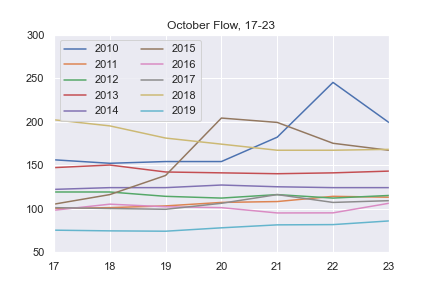
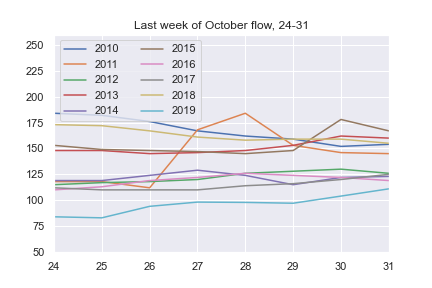
Week 9 Questions and Code

diff --git a/Forecast_Submissions/Bettis_HW9.py b/Forecast_Submissions/Bettis_HW9.py
@@ -1,0 +1,119 @@
+# %%
+# Import needed modules
+import pandas as pd
+import matplotlib.pyplot as plt
+from numpy.lib.function_base import average, median
+import datetime
+import os
+import dataretrieval.nwis as nwis
+import json
+import urllib.request as req
+import urllib
+# Set a grey background
+import seaborn as sns
+sns.set(style="darkgrid")
+df = sns.load_dataset('iris')
+
+# %%
+# Importing a URL to get data from instead of calling it from a text file
+# We should break the URL up onto multiple lines so it will be easier to read
+# Verde River Near Camp Verde
+url = "https://waterdata.usgs.gov/nwis/dv?cb_00060=on&format=rdb&site_no=09506000" \
+       "&referred_module=sw&period=&begin_date=1989-01-01&end_date=2020-10-21"
+
+# Now we can read it with read_table command the same as we did before
+# (note run this without the skiprows and names to show what those are doing)
+data = pd.read_table(url, sep='\t', skiprows=30,
+                      names=['agency_cd', 'site_no',
+                              'datetime', 'flow', 'code'],
+                              parse_dates=['datetime'])
+
+# Expand the dates to year month day
+data['year'] = pd.DatetimeIndex(data['datetime']).year
+data['month'] = pd.DatetimeIndex(data['datetime']).month
+data['day'] = pd.DatetimeIndex(data['datetime']).day
+data['dayofweek'] = pd.DatetimeIndex(data['datetime']).dayofweek
+datai = data.copy()
+datai = datai.set_index('datetime')
+# %%
+# Mesonet Example
+# Here are some helpful links for getting started
+# https://developers.synopticdata.com/about/station-variables/
+# https://developers.synopticdata.com/mesonet/explorer/
+# https://explore.synopticdata.com/metadata/stations?status=ACTIVE
+
+# First Create the URL for the rest API
+# Insert your token here
+mytoken = '2937e314803a4e31b8423f6b5da86644'
+
+# This is the base url that will be the start our final url
+base_url = "http://api.mesowest.net/v2/stations/timeseries"
+
+# Specific arguments for Montezuma Castle near Camp Verde
+args = {
+    'start': '200001014000',
+    'end': '202110230000',
+    'obtimezone': 'UTC',
+    'vars': 'air_temp',
+    'stids': 'MCZA3',
+    'units': 'precip|mm',
+    'token': mytoken}
+# Takes your arguments and paste them together
+# Into a string for the api
+# (Note you could also do this by hand, but this is better)
+apiString = urllib.parse.urlencode(args)
+print(apiString)
+
+# Add the API string to the base_url
+fullUrl = base_url + '?' + apiString
+print(fullUrl)
+
+# Now we are ready to request the data
+response = req.urlopen(fullUrl) 
+responseDict = json.loads(response.read())
+dateTime = responseDict['STATION'][0]['OBSERVATIONS']['date_time']
+precip = responseDict['STATION'][0]['OBSERVATIONS']['precip_accum_1']
+
+precip_data = pd.DataFrame({'Precipitation (mm)': precip},
+                           index=pd.to_datetime(dateTime))
+
+# Now we can combine this into a pandas dataframe
+data = pd.DataFrame({'Precipitation': precip}, index=pd.to_datetime(dateTime))
+# %%
+# Now convert this to weekly data using resample
+# Could not actually use this
+weekly_data = data.resample('W').mean()
+print(weekly_data)
+# %%
+# Finding Forecast Values
+datai = datai[datai.index.month == 10]
+octmedian = datai['2015-10-24':'2020-10-31'].median()
+print('Week 1 forecast is 129 cfs')
+# %%
+datai = datai[datai.index.month == 11]
+novmedian = datai['2015-11-01':'2020-11-06'].median()
+print('Week 1 forecast is 159 cfs')
+# %%
+# Graph for streamflow in 2010-2020 from October 24-31
+fig, ax = plt.subplots()
+for i in range(2010, 2020):
+    plot_data = data[(data['year'] == i) & (data['month'] == 10)]
+    ax.plot(plot_data['day'], plot_data['flow'],
+    label=i)
+    ax.set(title="Last week of October flow, 24-31", xlim=[24, 31], ylim=[50, 260])
+    ax.legend(ncol=2)
+plt.show()
+fig.savefig("Graph1.png")
+# %%
+# Graph for streamflow in 2010-2020 from November 1-6
+fig, ax = plt.subplots()
+for i in range(2010, 2020):
+    plot_data = data[(data['year'] == i) & (data['month'] == 11)]
+    ax.plot(plot_data['day'], plot_data['flow'],
+    label=i)
+    ax.set(title="1st Week of November flow, 1-6", xlim=[1, 6], ylim=[50, 260])
+    ax.legend(ncol=2)
+plt.show()
+fig.savefig("Graph2.png")
+
+# %%

diff --git a/Forecast_Submissions/Bettis_HW9.md b/Forecast_Submissions/Bettis_HW9.md
@@ -1,0 +1,38 @@
+Sierra Bettis
+HAS-Tools
+October 25, 2021
+
+1. A brief summary of the how you chose to generate your forecast this week.
+
+This week I wanted to get the data using an additional source of data that I got from a rain gauge close by. I could not get that to run, so I found the median flow value for the forecasting weeks and had to use that as my prediction. 
+
+2. A description of the dataset you added.
+   
+    What is the dataset? Why did you choose it?
+
+The dataset is an API that I chose so that I could make a better prediction of the forecasr, not just using the Verde River near Camp Verde data. 
+
+    What location have you chosen?
+
+I chose to look at Montezuma Castle near Camp Verde.
+
+    Where did you get the data from?
+
+I got the data from the USGS and then used the mesonet data.
+
+    What was your approach to accessing it?
+
+I used the metadata website to look for a station, got the parameters needed and wanted to run the API for precipitation.
+
+3. A plot of your additional time series along with your streamflow time series.
+
+I could not get my metadata to work properly. The error was saying that the key error was "STATION". 
+
+4. A plot that illustrates how you chose your forecast values.
+
+The first graph shows the flow values from 2010-2019 for the last week of October
+![picture 1](../../images/6df600703e529c672fab8f951811c2a4a656cb53ea7f8935ef6894a350639050.png)  
+
+The second graph shows the flow values from 2010-2019 for the first week of November. 
+![![picture 1](../../images/6df600703e529c672fab8f951811c2a4a656cb53ea7f8935ef6894a350639050.png)  
+ 1](../../images/9eeda341cb2f02f5692a9bb5f291d89cf832a1c503003cacad1c8cc62f180629.png)  
